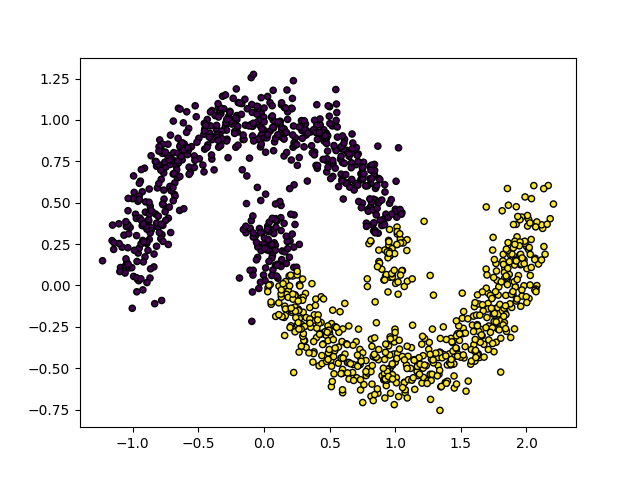
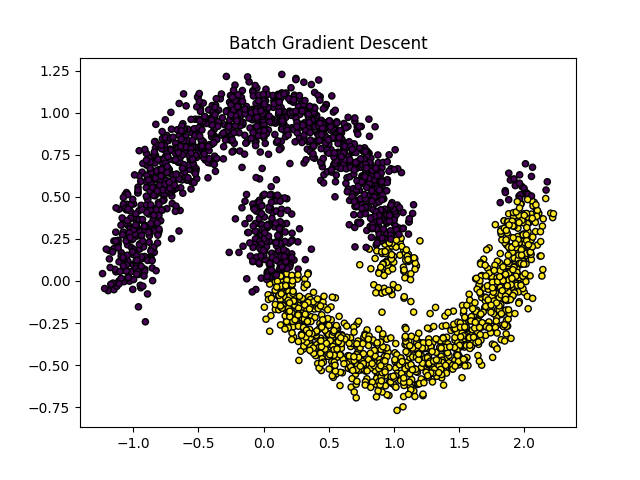
attempting to modify hidden layers

diff --git a/B/main.py b/B/main.py
@@ -106,7 +106,8 @@ def get_minibatch_grad(model, X_train, y_train):
     # Backprop using the informations we get from the current minibatch
     return backward(model, np.array(xs), np.array(hs), np.array(errs))
 
-def doGradientDecent(X_train, X_test, y_train, y_test, minibatch_size = 50, title="Gradient Descent"):
+def doGradientDecent(X_train, X_test, y_train, y_test, minibatch_size = 50, title="Gradient Descent", n_hidden=100):
+    print(title)
     # n_experiment = 100
     n_experiment = 1
 
@@ -116,7 +117,7 @@ def doGradientDecent(X_train, X_test, y_train, y_test, minibatch_size = 50, titl
     for k in range(n_experiment):
         print ("Experiment " + str(k))
         # Reset model
-        model = make_network()
+        model = make_network(n_hidden=n_hidden)
 
         # Train the model
         model = sgd(model, X_train, y_train, minibatch_size)
@@ -133,6 +134,7 @@ def doGradientDecent(X_train, X_test, y_train, y_test, minibatch_size = 50, titl
         # Compare the predictions with the true labels and take the percentage
         accs[k] = (y_pred == y_test).sum() / y_test.size
         print(y_pred)
+        plt.title(title)
         plt.scatter(X_test[:,0], X_test[:,1], c=y_pred, edgecolor='k', s=20)
         plt.savefig("B/images/" + title.replace(" ", "-"))
 
@@ -140,13 +142,15 @@ def doGradientDecent(X_train, X_test, y_train, y_test, minibatch_size = 50, titl
 
 
 if __name__ == "__main__":
-    X, y = make_moons(n_samples=5000, random_state=42, noise=0.1)
+    X, y = make_moons(n_samples=10000, random_state=42, noise=0.1)
     X_train, X_test, y_train, y_test = model_selection.train_test_split(X, y, random_state=42)
 
     plotData(X, y, "test")
 
     doGradientDecent(X_train, X_test, y_train, y_test, minibatch_size=1, title="Batch Gradient Descent")
-
+    doGradientDecent(X_train, X_test, y_train, y_test, minibatch_size=len(X_train), title="Stochastic Gradient Descent")
     doGradientDecent(X_train, X_test, y_train, y_test, minibatch_size=50, title="Mini Batch Gradient Descent")
 
-    doGradientDecent(X_train, X_test, y_train, y_test, minibatch_size=len(X_train), title="Stochastic Gradient Descent")
+    doGradientDecent(X_train, X_test, y_train, y_test, minibatch_size=1, title="Batch Gradient Descent More Hidden Layers", n_hidden=3)
+    doGradientDecent(X_train, X_test, y_train, y_test, minibatch_size=len(X_train), title="Stochastic Gradient Descent More Hidden Layers", n_hidden=3)
+    doGradientDecent(X_train, X_test, y_train, y_test, minibatch_size=50, title="Mini Batch Gradient Descent More Hidden Layers", n_hidden=3)
